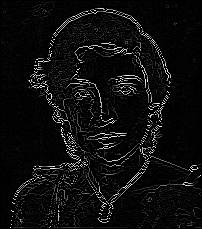
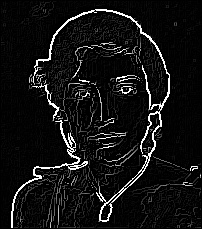
fix NMS algorithm

diff --git a/src/edge_detector.cpp b/src/edge_detector.cpp
@@ -77,11 +77,11 @@ void EdgeDetector::prewittEdgeDetectorWithNMS(cv::Mat& image, cv::Mat& outputPre
             magnitude = magnitude < 0 ? 0 : magnitude;
             magnitudes.at(i*image.cols + j) = magnitude;
 
-            gradientDirections.at(i*image.cols+j) = magnitudeY != 0 ? atan(magnitudeX/magnitudeY) : atan(magnitudeX/(magnitudeY+0.00001));
+            gradientDirections.at(i*image.cols+j) = magnitudeY != 0 ? atan(magnitudeX/magnitudeY) : atan(magnitudeX/(magnitudeY+0.0000001));
         }
     }
 
-    cv::Mat(image.rows, image.cols, CV_8UC1, magnitudes.data()).copyTo(outputPrewitt); // deep copy
+    cv::Mat(image.rows, image.cols, CV_8U, magnitudes.data()).copyTo(outputPrewitt); // deep copy
 
     // Algoritmus: Non-maxima suppression
     // 1 From each position (x,y), step in the two directions perpendicular to edge orientation Θ(x,y)
@@ -94,23 +94,29 @@ void EdgeDetector::prewittEdgeDetectorWithNMS(cv::Mat& image, cv::Mat& outputPre
     {
         for(int j = halfKernelSize; j < image.cols - halfKernelSize; ++j) // horizontal axis (columns)
         {
-            double perpendicularDirection = gradientDirections.at(i*image.cols+j) + (M_PI/2);
+            double perpendicularDirection = gradientDirections.at(i*image.cols+j);
 
-            if(perpendicularDirection <= angle || perpendicularDirection >= (M_PI - angle))
+            if(abs(perpendicularDirection) <= angle)
             {
+                // horizontal
+                magnitudesAfterNMS.at(i*image.cols+j) = (magnitudes.at((i+1)*image.cols+j) > magnitudes.at(i*image.cols+j)) || (magnitudes.at((i-1)*image.cols+j) > magnitudes.at(i*image.cols+j)) ? 0 : magnitudes.at(i*image.cols+j);
+                
+            }
+            else if(abs(perpendicularDirection) >= (M_PI/2 - angle) && abs(perpendicularDirection) <= (M_PI/2 + angle))
+            {
+                // vertical
                 magnitudesAfterNMS.at(i*image.cols+j) = (magnitudes.at(i*image.cols+j+1) > magnitudes.at(i*image.cols+j)) || (magnitudes.at(i*image.cols+j-1) > magnitudes.at(i*image.cols+j)) ? 0 : magnitudes.at(i*image.cols+j);
             }
-            else if(perpendicularDirection >= (M_PI/2 - angle) && perpendicularDirection <= (M_PI/2 + angle))
+            else if(perpendicularDirection > -angle && perpendicularDirection < -(M_PI/2 - angle))
             {
-                magnitudesAfterNMS.at(i*image.cols+j) = (magnitudes.at((i+1)*image.cols+j) > magnitudes.at(i*image.cols+j)) || (magnitudes.at((i-1)*image.cols+j) > magnitudes.at(i*image.cols+j)) ? 0 : magnitudes.at(i*image.cols+j);
-            }
-            else if(perpendicularDirection > angle && perpendicularDirection < (M_PI/2 - angle))
-            {
-                magnitudesAfterNMS.at(i*image.cols+j) = (magnitudes.at((i+1)*image.cols+j+1) > magnitudes.at(i*image.cols+j)) || (magnitudes.at((i-1)*image.cols+j-1) > magnitudes.at(i*image.cols+j)) ? 0 : magnitudes.at(i*image.cols+j);
+                // negative diagonal
+                magnitudesAfterNMS.at(i*image.cols+j) = (magnitudes.at((i-1)*image.cols+j+1) > magnitudes.at(i*image.cols+j)) || (magnitudes.at((i+1)*image.cols+j-1) > magnitudes.at(i*image.cols+j)) ? 0 : magnitudes.at(i*image.cols+j);
+                
             }
             else
             {
-                magnitudesAfterNMS.at(i*image.cols+j) = (magnitudes.at((i-1)*image.cols+j+1) > magnitudes.at(i*image.cols+j)) || (magnitudes.at((i+1)*image.cols+j-1) > magnitudes.at(i*image.cols+j)) ? 0 : magnitudes.at(i*image.cols+j);
+                // positive diagonal
+                magnitudesAfterNMS.at(i*image.cols+j) = (magnitudes.at((i+1)*image.cols+j+1) > magnitudes.at(i*image.cols+j)) || (magnitudes.at((i-1)*image.cols+j-1) > magnitudes.at(i*image.cols+j)) ? 0 : magnitudes.at(i*image.cols+j);
             }
         }
     }
